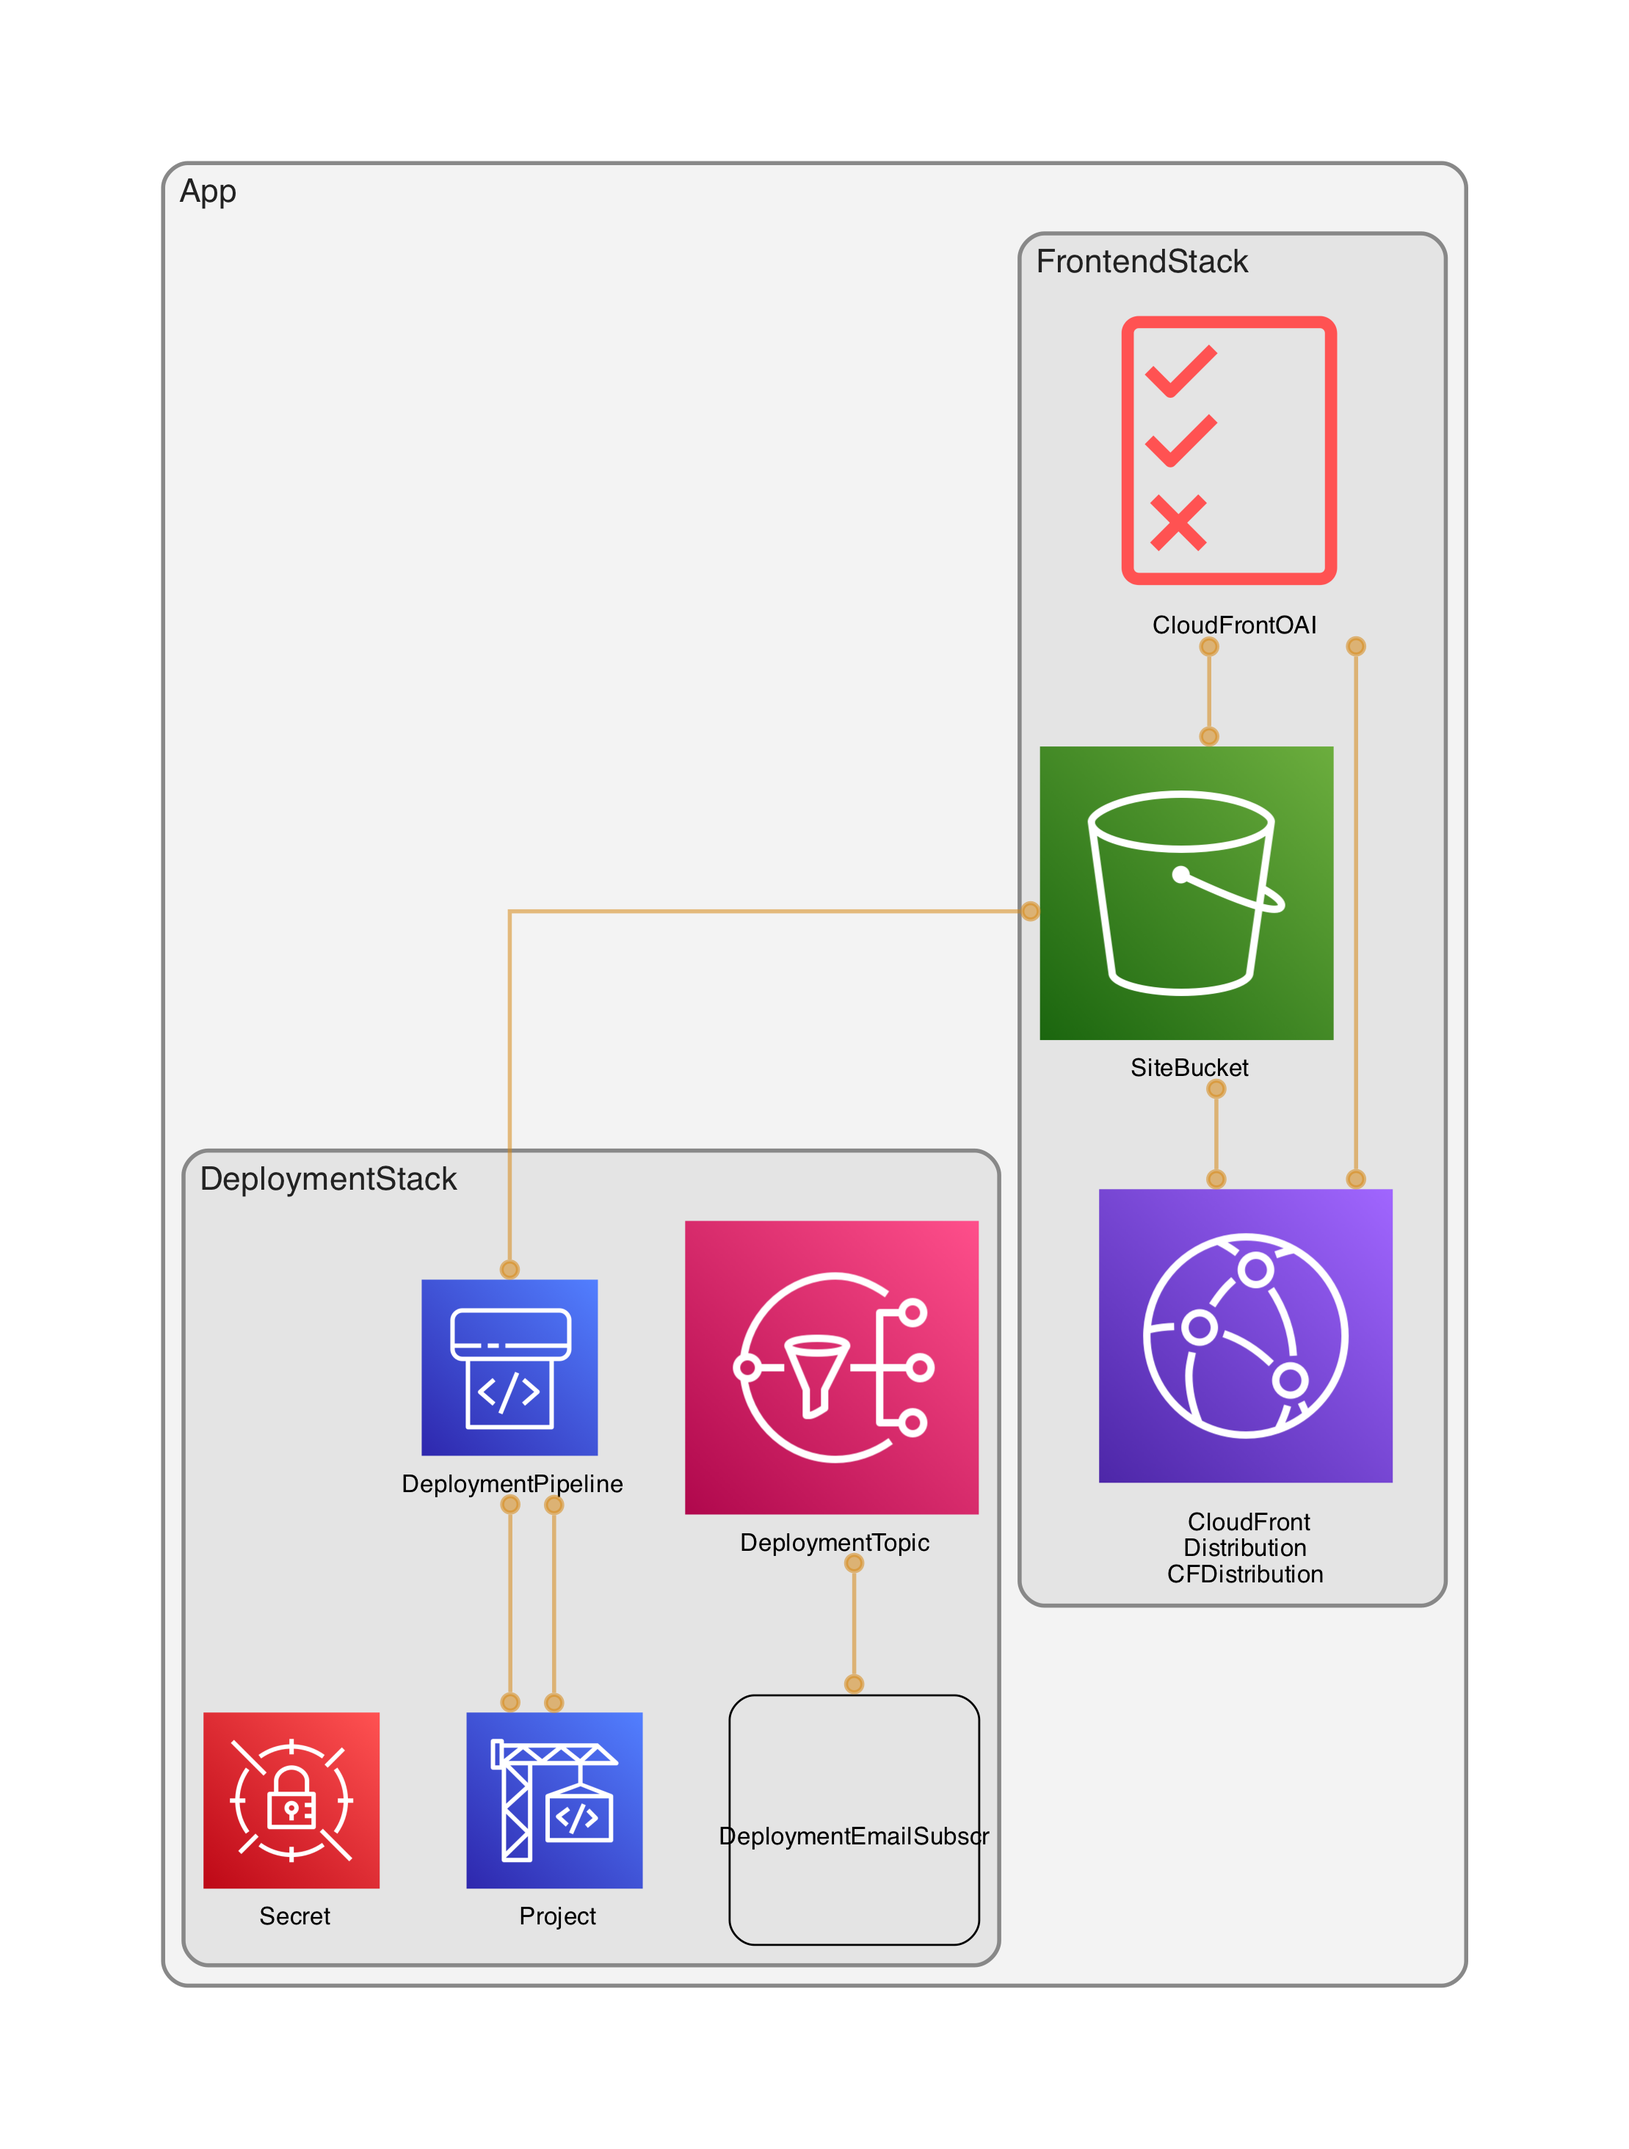
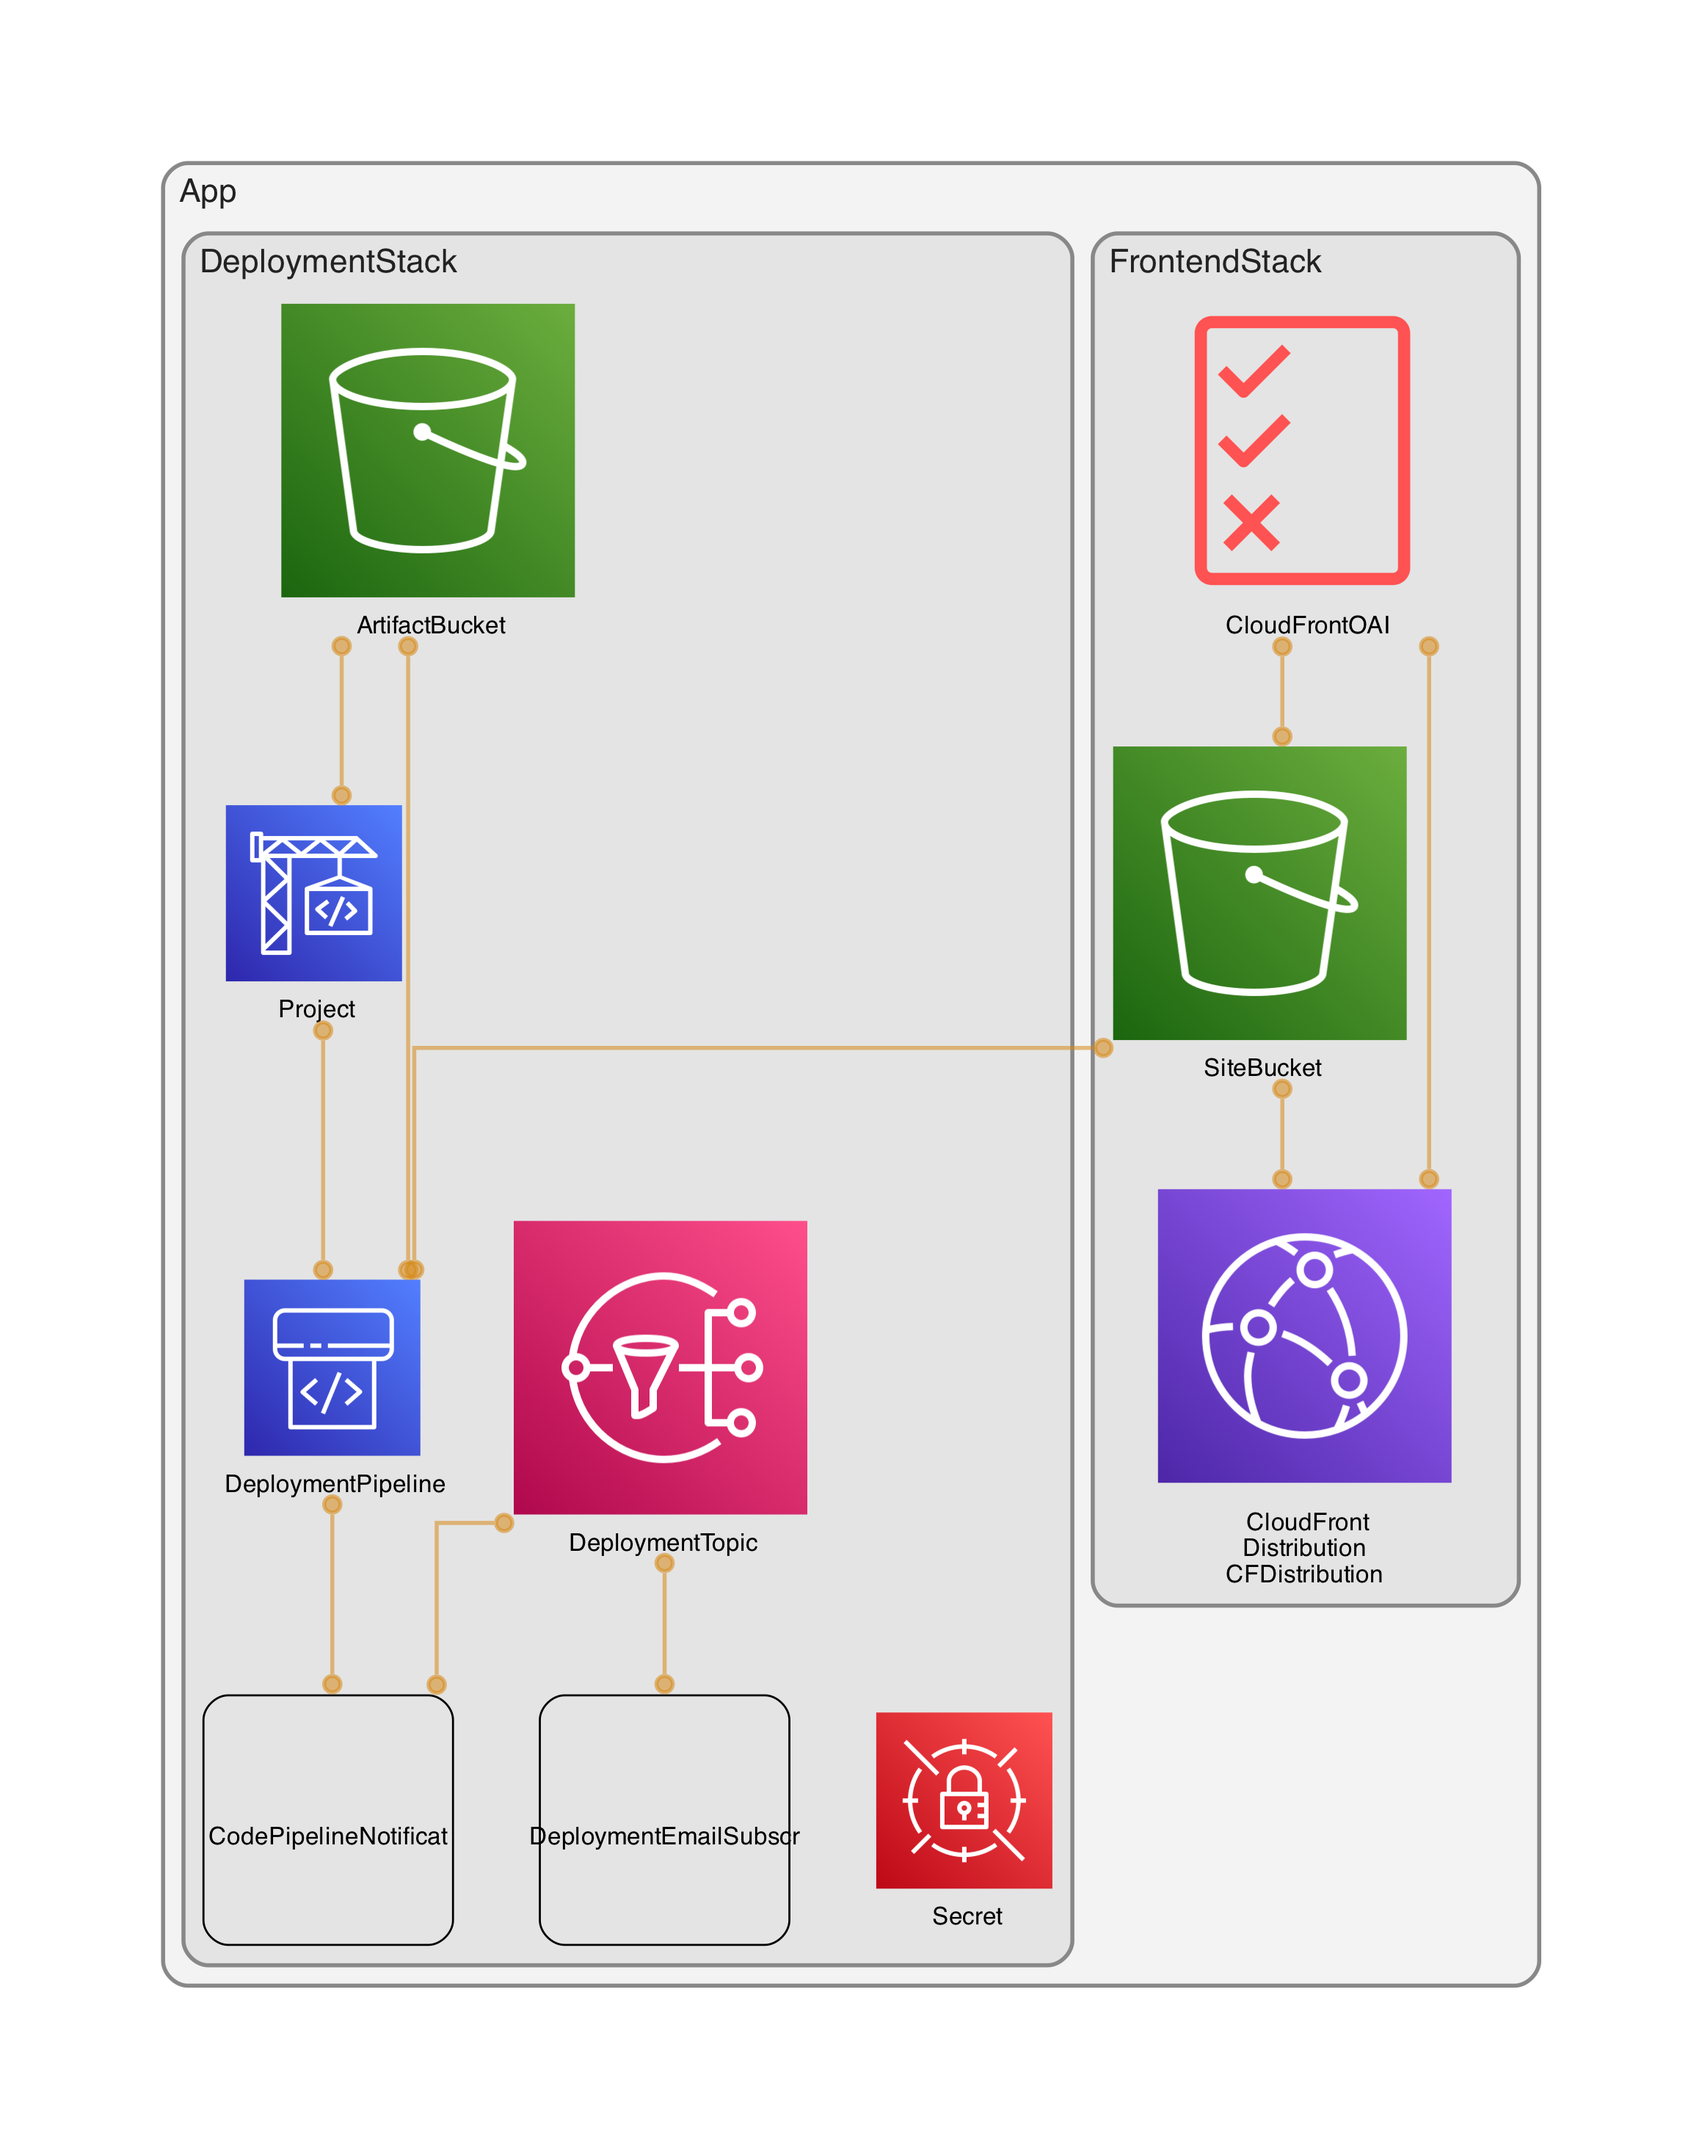
feat: added in SNS notification for failure on codepipeline

diff --git a/cdk/lib/DeploymentStack.ts b/cdk/lib/DeploymentStack.ts
@@ -29,52 +29,16 @@ export class DeploymentStack extends cdk.Stack {
 			token,
 		} = props;
 
-		// SNS topic
-		// const deploymentTopic = new cdk.aws_sns.Topic(this, "DeploymentTopic", {
-		// 	displayName: "Deployment notification topic",
-		// });
-
-		// new cdk.aws_sns.Subscription(this, "DeploymentEmailSubscription", {
-		// 	topic: deploymentTopic,
-		// 	protocol: cdk.aws_sns.SubscriptionProtocol.EMAIL,
-		// 	endpoint: email,
-		// });
-
-		// TODO: Add policies
-		// const lambdaRole = new cdk.aws_iam.Role(this, "lambdaRole", {
-		// 	assumedBy: new cdk.aws_iam.ServicePrincipal("lambda.amazonaws.com"),
-		// 	managedPolicies: [
-		// 		cdk.aws_iam.ManagedPolicy.fromAwsManagedPolicyName(
-		// 			"service-role/AWSLambdaBasicExecutionRole"
-		// 		),
-		// 	],
-		// });
-
-		// const uploadPortfolioHandler = new cdk.aws_lambda.Function(
-		// 	this,
-		// 	"getImageHandler",
-		// 	{
-		// 		code: cdk.aws_lambda.Code.fromAsset("../cicd/lambda"),
-		// 		handler: "upload_portfolio.handler",
-		// 		runtime: cdk.aws_lambda.Runtime.PYTHON_3_12,
-		// 		environment: {
-		// 			SNS_TOPIC_ARN: deploymentTopic.topicArn,
-		// 		},
-		// 		role: lambdaRole,
-		// 	}
-		// );
-
 		const codeBuildProject = new cdk.aws_codebuild.PipelineProject(
 			this,
 			"Project",
 			{
 				buildSpec: cdk.aws_codebuild.BuildSpec.fromSourceFilename(
-					"./cicd/codebuild/buildspec.yaml"
+					"./cicd/buildspec.yaml"
 				),
 			}
 		);
 
-		// TODO: Bug where the secre tvalue is not there
 		// Github secret for access to repository
 		new cdk.aws_secretsmanager.Secret(this, "Secret", {
 			secretName: "token",
@@ -145,15 +109,55 @@ export class DeploymentStack extends cdk.Stack {
 			}
 		);
 
+		// Notifies email when deployment fails
+		const deploymentTopic = new cdk.aws_sns.Topic(this, "DeploymentTopic", {
+			displayName: "Deployment notification topic",
+		});
+
+		new cdk.aws_sns.Subscription(this, "DeploymentEmailSubscription", {
+			topic: deploymentTopic,
+			protocol: cdk.aws_sns.SubscriptionProtocol.EMAIL,
+			endpoint: email,
+		});
+
+		deploymentTopic.addToResourcePolicy(
+			new cdk.aws_iam.PolicyStatement({
+				sid: "AWSCodeStarNotifications_publish",
+				effect: cdk.aws_iam.Effect.ALLOW,
+				principals: [
+					new cdk.aws_iam.ServicePrincipal(
+						"codestar-notifications.amazonaws.com"
+					),
+				],
+				actions: ["SNS:Publish"],
+				resources: ["*"],
+			})
+		);
+
+		new cdk.aws_codestarnotifications.NotificationRule(
+			this,
+			"CodePipelineNotifications",
+			{
+				detailType: cdk.aws_codestarnotifications.DetailType.BASIC,
+				events: [
+					"codepipeline-pipeline-pipeline-execution-failed",
+					"codepipeline-pipeline-action-execution-failed",
+					"codepipeline-pipeline-stage-execution-failed",
+				],
+				source: deploymentPipeline,
+				targets: [deploymentTopic],
+			}
+		);
+
 		// CloudFormation outputs
 		new cdk.CfnOutput(this, "DeploymentPipelineArn", {
 			value: deploymentPipeline.pipelineArn,
 			description: "Deployment Pipeline Arn",
 		});
 
-		// new cdk.CfnOutput(this, "DeploymentTopicArn", {
-		// 	value: deploymentTopic.topicArn,
-		// 	description: "Deployment SNS Topic Arn",
-		// });
+		new cdk.CfnOutput(this, "DeploymentTopicArn", {
+			value: deploymentTopic.topicArn,
+			description: "Deployment SNS Topic Arn",
+		});
 	}
 }

diff --git a/README.md b/README.md
@@ -13,7 +13,7 @@ This project provides a CI/CD pipeline for deploying a static website using Amaz
 
 ### Key Performance Indicators
 
-1. Deploy the updated version of the website within minutes.
+1. Deploy the updated version of the website within minutes automatically.
 
 ## Launch Configurations
 
@@ -42,7 +42,8 @@ EMAIL=test@example.com
 GITHUB_OWNER="example"
 GITHUB_REPO="my-portfolio"
 GITHUB_TOKEN="example"
-./scripts/generate_secret_env.sh $EMAIL $GITHUB_OWNER $GITHUB_REPO $GITHUB_TOKEN
+DOMAIN_NAME="example.xyz"
+./scripts/generate_secret_env.sh $EMAIL $GITHUB_OWNER $GITHUB_REPO $GITHUB_TOKEN $DOMAIN_NAME
 ```
 
 3. Run the following command to build and deploy the portfolio application:
@@ -55,36 +56,21 @@ GITHUB_TOKEN="example"
 
 ## Architecture Overview
 
+Upon pushing to the Github master branch, the AWS CodePipeline pulls the latest changes. These changes are processed through AWS CodeBuild and deployed to Amazon S3 which is delivered through Amazon CloudFront. The Amazon CloudFront is built in with a domain name configured through Route 53 with an associated SSL/TLS certificate through AWS Certificate Manager. If the pipeline fails at any point, the developer is notified of the errors through Amazon SNS.
+
+![Architecture Diagram](docs/assets/architecture-diagram.png)
+
 ### Code Layout
 
 | Path         | Description                                                    |
 | :----------- | :------------------------------------------------------------- |
 | cdk/         | AWS CDK source code                                            |
-| cicd/        | Lambda and CodeBuild processing code                           |
+| cicd/        | CodeBuild buildspec code                                       |
 | docs/assets/ | supporting assets for documentation.                           |
 | frontend/    | source code for React frontend                                 |
 | scripts/     | shell scripts to build, deploy, and interact with the project. |
 
-### Architecture Diagram
+## Future State
 
-**Frontend**
-
-This website is hosted using Amazon Web Services.
-
-1. Amazon Route 53 for DNS routing
-2. Amazon CloudFront for content distribution and caching
-3. AWS Certificate Manager for TLS/SSL security
-4. Amazon S3 to host static websites
-
-![Frontend Diagram](docs/assets/Frontend.png)
-
-**CI/CD**
-
-Behind the scenes we are using the following services to automate deployment whenever updates are pushed to the master branch:
-
-1. CodePipeline is notified of the changes in Github.
-2. CodeBuild is notified by CodePipeline and zips the files together into an S3 bucket.
-3. Lambda takes the S3 zip file and unzips it in the static hosted S3 bucket.
-   After this is processed, lambda uses SNS to notify me about the deployment success.
-
-![Backend Diagram](docs/assets/Backend.png)
+1. Refactor website to NextJS and update with projects.
+2. Add in ktptran.xyz domain name to hosted zone and deployment.
